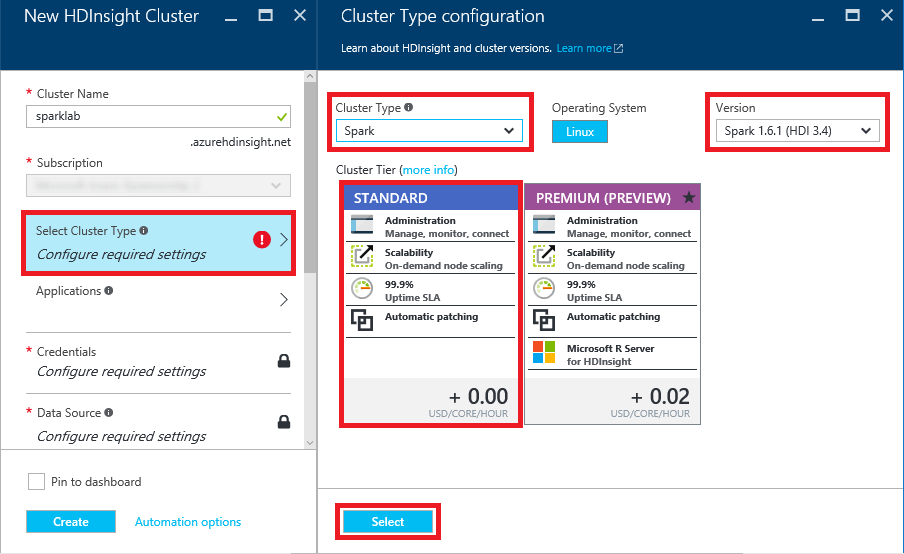
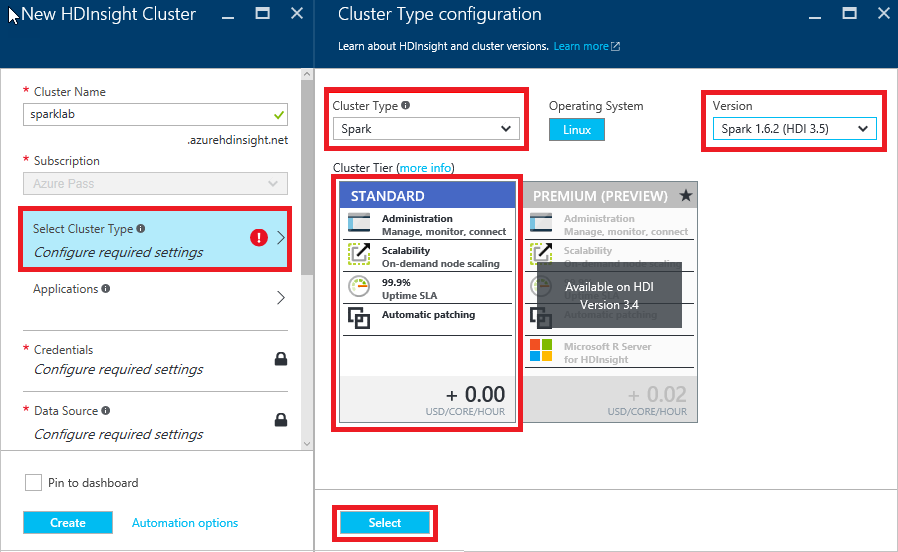
Updated HDInsight lab

diff --git a/Big Data and Analytics/Azure HDInsight/HOL1/HDInsight Spark HOL.html b/Big Data and Analytics/Azure HDInsight/HOL1/HDInsight Spark HOL.html
@@ -558,14 +558,14 @@ vertical-align:1px;
 <p><em>Specifying the cluster name</em></p>
 </li>
 <li>
-<p>Click <strong>Select Cluster Type</strong> to open a "Cluster Type configuration" blade. In that blade, select <strong>Spark</strong> as the <strong>Cluster Type</strong>. Under <strong>Version</strong>, select the latest Spark version, which is <strong>1.6.1 (HDI 3.4)</strong> at the time of this writing. Then click <strong>Standard</strong> to select a <strong>Cluster Tier</strong>, and finish up by clicking the <strong>Select</strong> button at the bottom of the blade.</p>
+<p>Click <strong>Select Cluster Type</strong> to open a "Cluster Type configuration" blade. In that blade, select <strong>Spark</strong> as the <strong>Cluster Type</strong>. Under <strong>Version</strong>, select Spark version <strong>1.6.2 (HDI 3.5)</strong>. Then click <strong>Standard</strong> to select a <strong>Cluster Tier</strong>, and finish up by clicking the <strong>Select</strong> button at the bottom of the blade.</p>
 
 <p><a href="Images/cluster-type.png" target="_blank"><img src="Images/cluster-type.png" alt="Specifying the cluster type" style="max-width:100%;"></a></p>
 
 <p><em>Specifying the cluster type</em></p>
 </li>
 <li>
-<p>Click <strong>Credentials</strong> to open a "Cluster Credentials" blade. Leave <strong>Cluster Login Username</strong> set to "admin" and make sure <strong>SSH Authentication Type</strong> is set to <strong>Password</strong>. Enter "sshuser" (without quotation marks) for the <strong>SSH Username</strong> and "A4rsparkdemo!" (again without quotation marks) for the <strong>Cluster Login Password</strong> and <strong>SSH Password</strong>. Then click the <strong>Select</strong> button at the bottom of the blade.</p>
+<p>Click <strong>Credentials</strong> to open a "Cluster Credentials" blade. Leave <strong>Cluster Login Username</strong> set to "admin" and set the <strong>Cluster Login Password</strong> to "A4rsparkdemo!".  Enter "sshuser" (without quotation marks) for the <strong>SSH Username</strong>, make sure <strong>SSH Authentication Type</strong> is set to <strong>Password</strong>, and enter "A4rsparkdemo!" (again without quotation marks) again for the <strong>SSH Password</strong>. Then click the <strong>Select</strong> button at the bottom of the blade.</p>
 
 <p><a href="Images/cluster-credentials.png" target="_blank"><img src="Images/cluster-credentials.png" alt="Specifying cluster credentials" style="max-width:100%;"></a></p>
 

diff --git a/Big Data and Analytics/Azure HDInsight/HOL1/HDInsight Spark HOL.md b/Big Data and Analytics/Azure HDInsight/HOL1/HDInsight Spark HOL.md
@@ -68,13 +68,13 @@ In this exercise, you will create an HDInsight cluster running [Apache Spark](ht
 
     _Specifying the cluster name_
 
-1. Click **Select Cluster Type** to open a "Cluster Type configuration" blade. In that blade, select **Spark** as the **Cluster Type**. Under **Version**, select the latest Spark version, which is **1.6.1 (HDI 3.4)** at the time of this writing. Then click **Standard** to select a **Cluster Tier**, and finish up by clicking the **Select** button at the bottom of the blade.
+1. Click **Select Cluster Type** to open a "Cluster Type configuration" blade. In that blade, select **Spark** as the **Cluster Type**. Under **Version**, select Spark version **1.6.2 (HDI 3.5)**. Then click **Standard** to select a **Cluster Tier**, and finish up by clicking the **Select** button at the bottom of the blade.
 
     ![Specifying the cluster type](Images/cluster-type.png)
 
     _Specifying the cluster type_
 
-1. Click **Credentials** to open a "Cluster Credentials" blade. Leave **Cluster Login Username** set to "admin" and make sure **SSH Authentication Type** is set to **Password**. Enter "sshuser" (without quotation marks) for the **SSH Username** and "A4rsparkdemo!" (again without quotation marks) for the **Cluster Login Password** and **SSH Password**. Then click the **Select** button at the bottom of the blade.
+1. Click **Credentials** to open a "Cluster Credentials" blade. Leave **Cluster Login Username** set to "admin" and set the **Cluster Login Password** to "A4rsparkdemo!".  Enter "sshuser" (without quotation marks) for the **SSH Username**, make sure **SSH Authentication Type** is set to **Password**, and enter "A4rsparkdemo!" (again without quotation marks) again for the **SSH Password**. Then click the **Select** button at the bottom of the blade.
 
     ![Specifying cluster credentials](Images/cluster-credentials.png)
 
